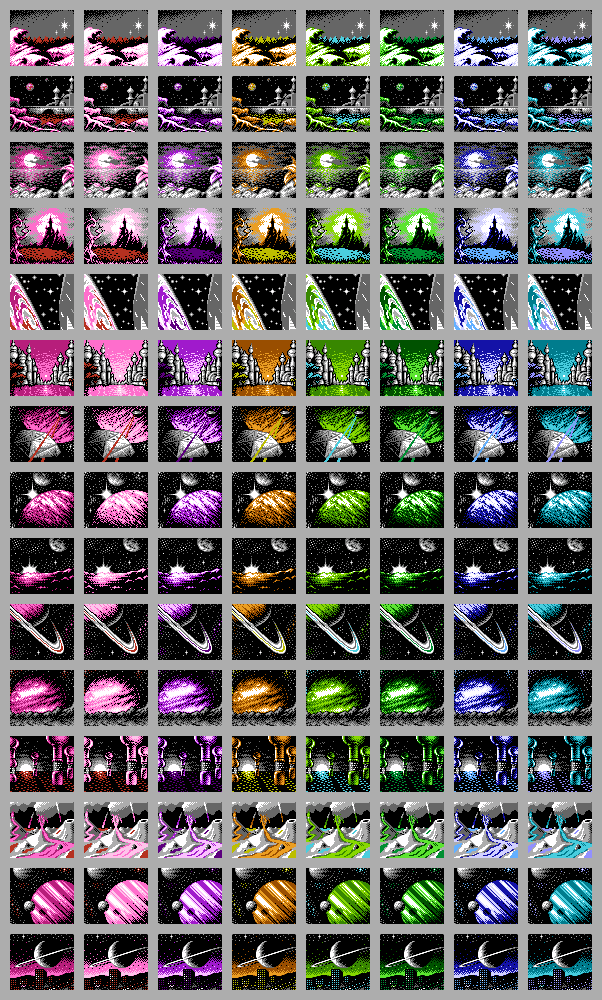
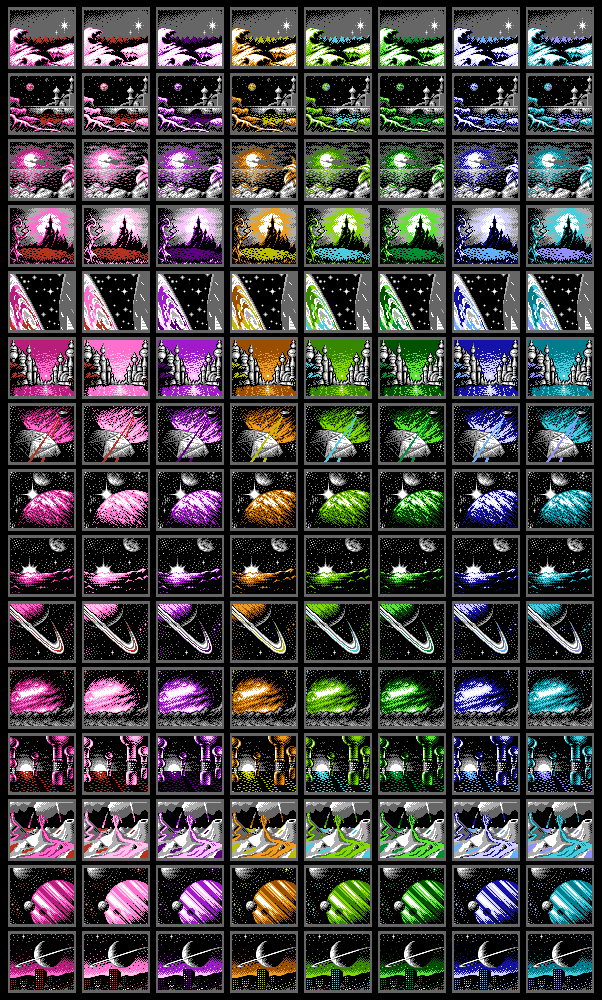
Improved system and commander gallery images

Changed region(s): [[0.0, 0.0, 1.0, 1.0]]

diff --git a/versions/nes/2-build-files/combine-images.py b/versions/nes/2-build-files/combine-images.py
@@ -42,20 +42,51 @@ def combine_images(background_image, foreground_image, combined_image):
         combined.write(img, bg_png)
 
 
-def generate_gallery(image_width, image_height, margin, images_across, images_down, input_image, output_image):
+def add_jewellery(all_image_rows, image_width, image_height, margin, fg_png, i, j, x_indent, y_indent, x_lo, x_hi, y_lo, y_hi, palette_from, palette_to):
+    x_pos = (image_width + margin) * j + margin + x_indent
+    y_pos = (image_height + margin) * i + margin + y_indent
+    for y in range(y_lo, y_hi):
+        fg_row = fg_png[y]
+        for x in range(x_lo, x_hi):
+            for k in range(3):
+                if fg_row[x * 4] == palettes[palette_from][k][0] and fg_row[x * 4 + 1] == palettes[palette_from][k][1] and fg_row[x * 4 + 2] == palettes[palette_from][k][2]:
+                    all_image_rows[y_pos + y][(x_pos + x) * 4 + 0] = palettes[palette_to][k][0]
+                    all_image_rows[y_pos + y][(x_pos + x) * 4 + 1] = palettes[palette_to][k][1]
+                    all_image_rows[y_pos + y][(x_pos + x) * 4 + 2] = palettes[palette_to][k][2]
+                    all_image_rows[y_pos + y][(x_pos + x) * 4 + 3] = palettes[palette_to][k][3]
+
+
+def add_gallery_background(all_image_rows, all_image_width, all_image_height, image_width, image_height, margin):
+    gap = int(margin / 2)
+    hframe = 3
+    vframe = 2
+    for j in range(all_image_height):
+        row = []
+        for i in range(all_image_width):
+            hgap = (i - gap) % (image_width + margin)
+            vgap = (j - gap) % (image_height + margin)
+            if i < gap or i >= (all_image_width - gap) or hgap < hframe or hgap >= image_width + margin - hframe:
+                row.extend([0, 0, 0, 255])
+            elif j < gap or j >= (all_image_height - gap) or vgap < vframe or vgap >= image_height + margin - vframe:
+                row.extend([0, 0, 0, 255])
+            else:
+                row.extend(palettes[8][1])
+        all_image_rows.append(row)
+
+
+def generate_gallery(image_width, image_height, margin, images_across, images_down, input_image, output_image, jewellery):
     all_image_rows = []
     all_image_width = (image_width + margin) * images_across + margin
     all_image_height = (image_height + margin) * images_down + margin
 
-    for j in range(all_image_height):
-        row = []
-        for i in range(all_image_width):
-            row.extend([173, 173, 173, 255])
-        all_image_rows.append(row)
+    add_gallery_background(all_image_rows, all_image_width, all_image_height, image_width, image_height, margin)
 
     for i in range(images_down):
         for j in range(images_across):
-            combined_image = input_image + str(i) + '_' + str(j) + '.png'
+            if jewellery:
+                combined_image = input_image + str(i) + '_0.png'
+            else:
+                combined_image = input_image + str(i) + '_' + str(j) + '.png'
             fg = png.Reader(filename=combined_image)
             (fg_width, fg_height, fg_rows, fg_info) = fg.asDirect()
             fg_png = list(fg_rows)
@@ -67,10 +98,55 @@ def generate_gallery(image_width, image_height, margin, images_across, images_do
                     for k in range(4):
                         all_image_rows[y_pos + y][(x_pos + x) * 4 + k] = fg_row[x * 4 + k]
 
+    if jewellery:
+        fg = png.Reader(filename='../1-source-files/images/other-images/pngs/glassesImage_ppu.png')
+        (fg_width, fg_height, fg_rows, fg_info) = fg.asDirect()
+        fg_png = list(fg_rows)
+        for i in range(images_down):
+            # Add dark glasses column 4 onwards
+            for j in range(4, 8):
+                add_jewellery(all_image_rows, image_width, image_height, margin, fg_png, i, j, x_indent=11, y_indent=20, x_lo=0, x_hi=fg_width, y_lo=0, y_hi=8, palette_from=11, palette_to=14)
+
+            # Add left earring to column 1-3 and 5-7 onwards
+            for j in [1, 2, 3, 5, 6, 7]:
+                add_jewellery(all_image_rows, image_width, image_height, margin, fg_png, i, j, x_indent=3, y_indent=20, x_lo=0, x_hi=8, y_lo=8, y_hi=16, palette_from=11, palette_to=15)
+
+            # Add right earring to column 2-3 and 6-7 onwards
+            for j in [2, 3, 6, 7]:
+                add_jewellery(all_image_rows, image_width, image_height, margin, fg_png, i, j, x_indent=27, y_indent=20, x_lo=8, x_hi=16, y_lo=8, y_hi=16, palette_from=11, palette_to=15)
+
+            # Add medallion to columns 3 and 7
+            for j in [3, 7]:
+                add_jewellery(all_image_rows, image_width, image_height, margin, fg_png, i, j, x_indent=3, y_indent=33, x_lo=8, x_hi=16, y_lo=16, y_hi=24, palette_from=11, palette_to=15)
+                add_jewellery(all_image_rows, image_width, image_height, margin, fg_png, i, j, x_indent=3, y_indent=33, x_lo=8, x_hi=24, y_lo=24, y_hi=32, palette_from=11, palette_to=15)
+                add_jewellery(all_image_rows, image_width, image_height, margin, fg_png, i, j, x_indent=27, y_indent=25, x_lo=0, x_hi=8, y_lo=24, y_hi=40, palette_from=11, palette_to=15)
+
     with open(output_image, 'wb') as img:
         png_writer = png.Writer(width=all_image_width, height=all_image_height, greyscale=False, alpha=True, bitdepth=8)
         png_writer.write(img, all_image_rows)
 
+
+# Palettes used to create PNGs
+# For the 8 system palettes see .systemPalettes in source
+
+palettes = [
+    [[254, 110, 204, 255], [181,  49,  32, 255], [183,  30, 123, 255]],        # 0  System palette 0 for system image foreground sprite (PPU), e.g. Lave
+    [[254, 196, 234, 255], [181,  49,  32, 255], [254, 110, 204, 255]],        # 1  System palette 1 for system image foreground sprite (PPU), e.g. Diso
+    [[251, 194, 255, 255], [ 92,   0, 126, 255], [160,  26, 204, 255]],        # 2  System palette 2 for system image foreground sprite (PPU), e.g. Zaonce
+    [[234, 158,  34, 255], [188, 190,   0, 255], [153,  78,   0, 255]],        # 3  System palette 3 for system image foreground sprite (PPU), e.g. Leesti
+    [[136, 216,   0, 255], [ 75, 205, 222, 255], [ 56, 135,   0, 255]],        # 4  System palette 4 for system image foreground sprite (PPU), e.g. Onrira
+    [[ 92, 228,  48, 255], [  0, 143,  50, 255], [  0,  82,   0, 255]],        # 5  System palette 5 for system image foreground sprite (PPU), e.g. Reorte
+    [[211, 210, 255, 255], [100, 176, 255, 255], [ 20,  18, 167, 255]],        # 6  System palette 6 for system image foreground sprite (PPU), e.g. Uszaa
+    [[ 72, 205, 222, 255], [146, 144, 255, 255], [  0, 124, 141, 255]],        # 7  System palette 7 for system image foreground sprite (PPU), e.g. Orerve
+    [[173, 173, 173, 255], [102, 102, 102, 255], [255, 254, 255, 255]],        # 8  Grey palette for system image backgrounds (RAM)
+    [[255,   0,   0, 255], [  0, 255,   0, 255], [  0,   0, 255, 255]],        # 9  RGB (useful for debugging)
+    [[  0, 124, 141, 255], [173, 173, 173, 255], [255, 254, 255, 255]],        # 10 Palette for commander headshot background (RAM)
+    [[153,  78,   0, 255], [234, 158,  34, 255], [247, 216, 165, 255]],        # 11 Palette for commander face foreground sprite (PPU)
+    [[255, 255, 255, 255], [  0,   0,   0, 255], [255, 255, 255, 255]],        # 12 Only show colour 1 in the font character set
+    [[0,     0,   0, 255], [255, 255, 255, 255], [255, 255, 255, 255]],        # 13 Only show colour 2 in the font character set
+    [[0,     0,   0, 255], [173, 173, 173, 255], [255, 254, 255, 255]],        # 14 Palette for dark glasses
+    [[0,     0,   0, 255], [188, 190,   0, 255], [228, 229, 148, 255]],        # 15 Palette for earrings and necklace
+]
 
 for i in range(15):
     for j in range(8):
@@ -89,7 +165,7 @@ for i in range(14):
         combine_images(background_image, foreground_image, combined_image)
 
 
-# All system images
+# Gallery of system images
 
 image_width = 64
 image_height = 56
@@ -99,14 +175,16 @@ images_down = 15
 input_image = '../1-source-files/images/system-images/combined/systemImage'
 output_image = '../1-source-files/images/system-images/allSystemImages.png'
 print("Generating gallery: allSystemImages")
-generate_gallery(image_width, image_height, margin, images_across, images_down, input_image, output_image)
+generate_gallery(image_width, image_height, margin, images_across, images_down, input_image, output_image, jewellery=False)
+
+# Gallery of commander images
 
 image_width = 48
 image_height = 64
 margin = 10
-images_across = 1
+images_across = 8
 images_down = 14
 input_image = '../1-source-files/images/commander-images/combined/commanderImage'
 output_image = '../1-source-files/images/commander-images/allCommanderImages.png'
 print("Generating gallery: allCommanderImages")
-generate_gallery(image_width, image_height, margin, images_across, images_down, input_image, output_image)
+generate_gallery(image_width, image_height, margin, images_across, images_down, input_image, output_image, jewellery=True)

diff --git a/versions/nes/2-build-files/unpack-data.py b/versions/nes/2-build-files/unpack-data.py
@@ -223,10 +223,12 @@ palettes = [
     [[ 72, 205, 222, 255], [146, 144, 255, 255], [  0, 124, 141, 255]],        # 7  System palette 7 for system image foreground sprite (PPU), e.g. Orerve
     [[173, 173, 173, 255], [102, 102, 102, 255], [255, 254, 255, 255]],        # 8  Grey palette for system image backgrounds (RAM)
     [[255,   0,   0, 255], [  0, 255,   0, 255], [  0,   0, 255, 255]],        # 9  RGB (useful for debugging)
-    [[188, 190,   0, 255], [173, 173, 173, 255], [255, 254, 255, 255]],        # 10 Palette for commander headshot background (RAM)
+    [[  0, 124, 141, 255], [173, 173, 173, 255], [255, 254, 255, 255]],        # 10 Palette for commander headshot background (RAM)
     [[153,  78,   0, 255], [234, 158,  34, 255], [247, 216, 165, 255]],        # 11 Palette for commander face foreground sprite (PPU)
     [[255, 255, 255, 255], [  0,   0,   0, 255], [255, 255, 255, 255]],        # 12 Only show colour 1 in the font character set
     [[0,     0,   0, 255], [255, 255, 255, 255], [255, 255, 255, 255]],        # 13 Only show colour 2 in the font character set
+    [[0,     0,   0, 255], [173, 173, 173, 255], [255, 254, 255, 255]],        # 14 Palette for dark glasses
+    [[0,     0,   0, 255], [188, 190,   0, 255], [228, 229, 148, 255]],        # 15 Palette for earrings and necklace
 ]
 
 # faceOffset entries from bank 4
